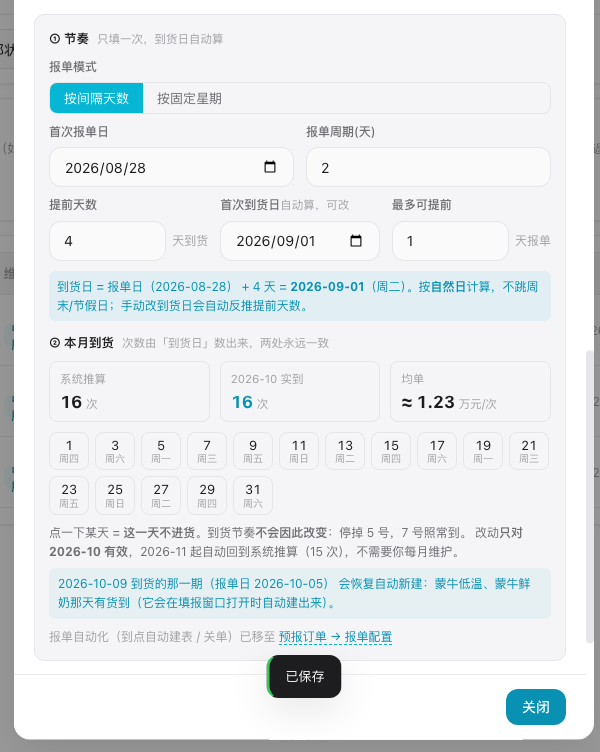
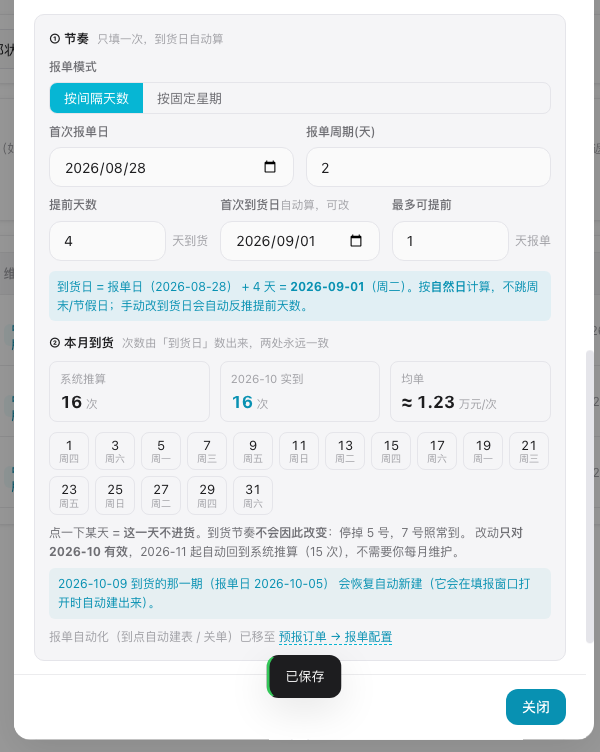
test(v368): v365 停单探针同步 v368 语义反转（任一品牌停⇒整期不建）+ 两张截图重出
由已停会话的在途改动收尾提交（本会话代提交）：
- v365-api-probe.py：断言按 v368 反转 —— 3.6 excluded 由 False→True、
  3.10 excluded_count 由 0→1、5.3 取消鲜奶后仍 excluded=True；
  新增 3.7b/5.3b skipped_brands 点名、第 8 节 skipped 列表 + 一键作废端点
- 两张 v365 截图按新语义重出（二进制更新）

Changed region(s): [[0.09, 0.7952, 0.54, 0.8258], [0.72, 0.7646, 0.9, 0.7952]]

diff --git a/.workbuddy/tools/v365-api-probe.py b/.workbuddy/tools/v365-api-probe.py
@@ -92,6 +92,7 @@ U, P = creds()
 # 这两个日子是生产真实到货日（2026-10-09 ⇒ 报单日 10-05；10-13 ⇒ 报单日 10-09）
 D_REAL = "2026-10-09"
 D_NOISE = "2026-10-10"          # 不是到货日 ⇒ 不该影响任何期次
+D_EXIST = "2026-10-07"          # v368：生产期次#23 的到货日（测「已存在期次」的 skipped）
 R_MILK_LOW, R_MILK_FRESH = 10, 11
 
 sec("0. 登录 + 运行前快照（复原用）")
@@ -139,7 +140,7 @@ try:
     ok("2.5 起点：当前没有停单 ⇒ 无期次被排除（快照也确实是空）",
        all(not (v or "").strip() for v in SNAP.values()), SNAP)
 
-    sec("3. 反例：只停**一个**品牌 ⇒ 回执必须说「照建」并点名另一品牌")
+    sec("3. 只停**一个**品牌 ⇒ [v368 反转] 回执必须说「不再自动新建」并交代谁跟着停")
     st, r1 = put_skips(R_MILK_LOW, TOK, D_REAL)
     dd1 = r1.get("data") or {}
     af1 = dd1.get("affected_periods") or {}
@@ -151,14 +152,21 @@ try:
     a_hit = [x for x in (af1.get("affected") or []) if x.get("arrival_date") == D_REAL]
     ok("3.5 🔴 10-09 那一期被列进 affected（打中了）", len(a_hit) == 1, af1.get("affected"))
     p1 = a_hit[0] if a_hit else {}
-    ok("3.6 🔴🔴 但它的**最终结论** excluded=False —— 界面不能据此说「不再自动新建」",
-       p1.get("excluded") is False, (p1.get("excluded"), p1.get("reason")))
-    ok("3.7 并点名那天照常到货的品牌（蒙牛鲜奶）",
+    # 🔴🔴 v368 反转（老板拍板）：原判「全停才排除」⇒ 现「**任一品牌停 ⇒ 整期不建**」。
+    #     旧文（v365）：「excluded=False —— 界面不能据此说『不再自动新建』」—— 已失效，勿照抄。
+    ok("3.6 [v368 反转 v365] 🔴🔴 它的**最终结论** excluded=**True** —— 界面必须说"
+       "「不再自动新建」（任一品牌不到货 ⇒ 整期不建）",
+       p1.get("excluded") is True, (p1.get("excluded"), p1.get("reason")))
+    ok("3.7 并点名那天照常到货的品牌（蒙牛鲜奶）—— 判据变了，交代义务没变",
        "蒙牛鲜奶" in (p1.get("still_arriving") or []), p1.get("still_arriving"))
-    ok("3.8 reason 里写明「仍按期建表」", "仍按期建表" in (p1.get("reason") or ""), p1.get("reason"))
+    ok("3.7b 🆕 v368：`skipped_brands` 点名「是谁停的」（界面说「谁仍标记不到货」要靠它）",
+       "蒙牛低温" in (p1.get("skipped_brands") or []), p1.get("skipped_brands"))
+    ok("3.8 [v368 反转 v365] reason 里写明「不再自动新建期次」+「整期不建」",
+       "不再自动新建" in (p1.get("reason") or "") and "整期不建" in (p1.get("reason") or ""),
+       p1.get("reason"))
     ok("3.9 window=future（填报窗口 10-04 16:00 才开）", p1.get("window") == "future", p1.get("window"))
-    ok("3.10 excluded_count 回执 = 0（这一轮什么都没排除）",
-       int(af1.get("excluded_count") or 0) == 0, af1.get("excluded_count"))
+    ok("3.10 [v368 反转 v365] excluded_count 回执 = 1（只停一个品牌也会排除这一期）",
+       int(af1.get("excluded_count") or 0) == 1, af1.get("excluded_count"))
     st, r1b = put_skips(R_MILK_LOW, TOK, D_REAL + "," + D_NOISE)
     d1b = r1b.get("data") or {}
     ok("3.11 反向：10-10 不是到货日 ⇒ 不产生新的 affected 条目",
@@ -198,9 +206,11 @@ try:
     ok("5.1 DELETE 放行（200）", st == 200, st)
     ok("5.2 回执里 effect=restore（语义：这些期次会**恢复**）",
        a3 and a3[0].get("effect") == "restore", (a3 or [{}])[0].get("effect"))
-    ok("5.3 🔴🔴 取消鲜奶之后 excluded=**False**（低温仍停，但鲜奶恢复送货 ⇒ 部分停 ⇒ 照建）。"
-       "若按「取消前」算会得到 True ⇒ 界面说「不再自动新建」= 与后端结论相反",
-       a3 and a3[0].get("excluded") is False, (a3 or [{}])[0])
+    ok("5.3 [v368 反转 v365] 🔴🔴 取消鲜奶之后 excluded=**True** —— 低温仍停 ⇒ 任一品牌停就不建。"
+       "界面要说「仍不会自动新建」，说「会恢复」就是与后端结论相反",
+       a3 and a3[0].get("excluded") is True, (a3 or [{}])[0])
+    ok("5.3b 🆕 v368：`skipped_brands` 点名「还在停的是谁」（蒙牛低温）⇒ 界面才能说清楚",
+       a3 and a3[0].get("skipped_brands") == ["蒙牛低温"], (a3 or [{}])[0].get("skipped_brands"))
     ok("5.4 still_arriving 点名刚取消的那一家（蒙牛鲜奶）",
        a3 and a3[0].get("still_arriving") == ["蒙牛鲜奶"], (a3 or [{}])[0].get("still_arriving"))
     ok("5.5 回执 skip_dates_stored 已清空", (dd3.get("skip_dates_stored") or "") == "",
@@ -228,6 +238,55 @@ try:
     ok("6.2 未带 token 的 PUT 被拦（写路径没裸奔）", st in (401, 403), st)
     st, _ = req("GET", "/api/forecast/auto-period")
     ok("6.3 /api/forecast/auto-period 未带 token ⇒ 401/403", st in (401, 403), st)
+
+    sec("8. 🆕 v368：期次列表的 skipped（④「本期少了 N 期」）与一键作废端点（③）")
+    st, lp0 = req("GET", "/api/forecast/periods", TOK)
+    ok("8.1 GET /api/forecast/periods 返回 200 且带 skipped 键", st == 200 and "skipped" in lp0,
+       (st, list(lp0.keys())[:8]))
+    ok("8.2 🔴 无停单 ⇒ skipped 为空、skipped_dates 为空（不误报：不能把正常期次说成「货不来」）",
+       lp0.get("skipped") == [] and lp0.get("skipped_dates") == [],
+       (lp0.get("skipped"), lp0.get("skipped_dates")))
+    ok("8.3 既有字段一个没少（periods / current / open / open_stale / auto_reap_on）",
+       all(k in lp0 for k in ("periods", "current", "open", "open_stale", "auto_reap_on")),
+       list(lp0.keys()))
+    # 生产真实期次#23：报单日 2026-10-03 / 到货 2026-10-07 / status=open
+    # ⇒ 把 10-07 标记「不到货」，它就变成「本不该建」的那一期（v368③的受众）。
+    # 🔴 只写停单表（v364 的表）、不建期次 —— 建 open 期次会挡住自动建表（v354/355 死锁）。
+    st8, r8 = put_skips(R_MILK_LOW, TOK, D_EXIST)
+    ok("8.4 标记 10-07 不到货 ⇒ PUT 200", st8 == 200, st8)
+    st, lp1 = req("GET", "/api/forecast/periods", TOK)
+    sk1 = lp1.get("skipped") or []
+    hit23 = [s for s in sk1 if s.get("arrival_date") == D_EXIST]
+    ok("8.5 🔴 skipped 点名了已存在的那一期（④的数据来源）", bool(hit23), sk1)
+    ok("8.6 该项带 id / name / arrival_date / status 四件套（界面要显示 + 要作废）",
+       hit23 and all(k in hit23[0] for k in ("id", "name", "arrival_date", "status")),
+       (hit23 or [{}])[0])
+    ok("8.7 它是「还没作废」的 open 期次（界面据此才显示「一键作废」按钮）",
+       hit23 and hit23[0].get("status") == "open", (hit23 or [{}])[0].get("status"))
+    ok("8.8 skipped_dates 去重列出到货日（界面点名用）",
+       lp1.get("skipped_dates") == [D_EXIST], lp1.get("skipped_dates"))
+    st, ob1 = req("GET", "/api/forecast/order-board", TOK)
+    bd1 = ob1.get("board") or []
+    r23 = next((r for r in bd1 if str(r.get("arrival_date") or "") == D_EXIST), None)
+    ok("8.9 🔴 GET /order-board 行内 arrival_skipped=1（历史页据此显示「那天不到货」+ 按钮）",
+       r23 is not None and r23.get("arrival_skipped") == 1, r23 and r23.get("arrival_skipped"))
+    ok("8.10 未打中的期次 arrival_skipped=0（不是整表都标）",
+       all(int(r.get("arrival_skipped") or 0) == 0
+           for r in bd1 if str(r.get("arrival_date") or "") != D_EXIST))
+    # 🔴 void 端点存在性判据：404 的 detail 是我们自己写的「期次不存在或已删除」，
+    #    而 FastAPI 路由不存在时 detail 是 "Not Found" ⇒ 两者可区分 ⇒ 断言有判别力。
+    #    用 999999（必然不存在）⇒ 零副作用，不碰生产在用的期次。
+    st, vd = req("POST", "/api/forecast/periods/999999/void", TOK)
+    ok("8.11 🔴 作废端点**已注册**：POST /periods/999999/void ⇒ 404 且 detail 是我们那条"
+       "（若路由不存在，detail 会是 FastAPI 的 Not Found）",
+       st == 404 and "期次不存在" in str(vd.get("detail") or ""), (st, vd.get("detail")))
+    st, _ = req("POST", "/api/forecast/periods/999999/void")
+    ok("8.12 作废端点未带 token ⇒ 401/403（写路径没裸奔）", st in (401, 403), st)
+    # 复原：清掉这一节写的停单（finally 还会再兜一次）
+    del_skips(R_MILK_LOW, TOK)
+    st, lp2 = req("GET", "/api/forecast/periods", TOK)
+    ok("8.13 复原后 skipped 回到空（不留下脏数据）",
+       (lp2.get("skipped") or []) == [], lp2.get("skipped"))
 
 finally:
     sec("7. 复原（无论前面成败都执行）")
